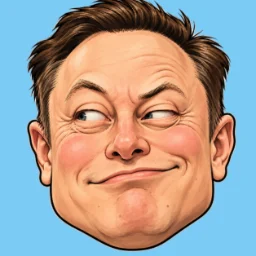
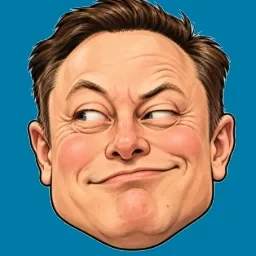
머스크 배경색을 하늘색에서 세룰리안 블루(#007BA7)로: 김정은 회색과 구별되게
Claude-Session: https://claude.ai/code/session_01RAgaCcyma8RUBCKB8DyZKA

diff --git a/sw.js b/sw.js
@@ -1,7 +1,7 @@
 // 서비스 워커: 앱 셸 선캐시 + 네트워크 우선 (오프라인이면 캐시).
 // 예전 파일과 새 파일이 섞여 게임이 멈추는 일이 없도록 항상 최신 파일을 먼저 받는다.
 // 파일을 바꿔 배포하면 VERSION을 올린다.
-const VERSION = 'v128';
+const VERSION = 'v129';
 const CACHE = `bosses-${VERSION}`;
 const SHELL = [
   './',
